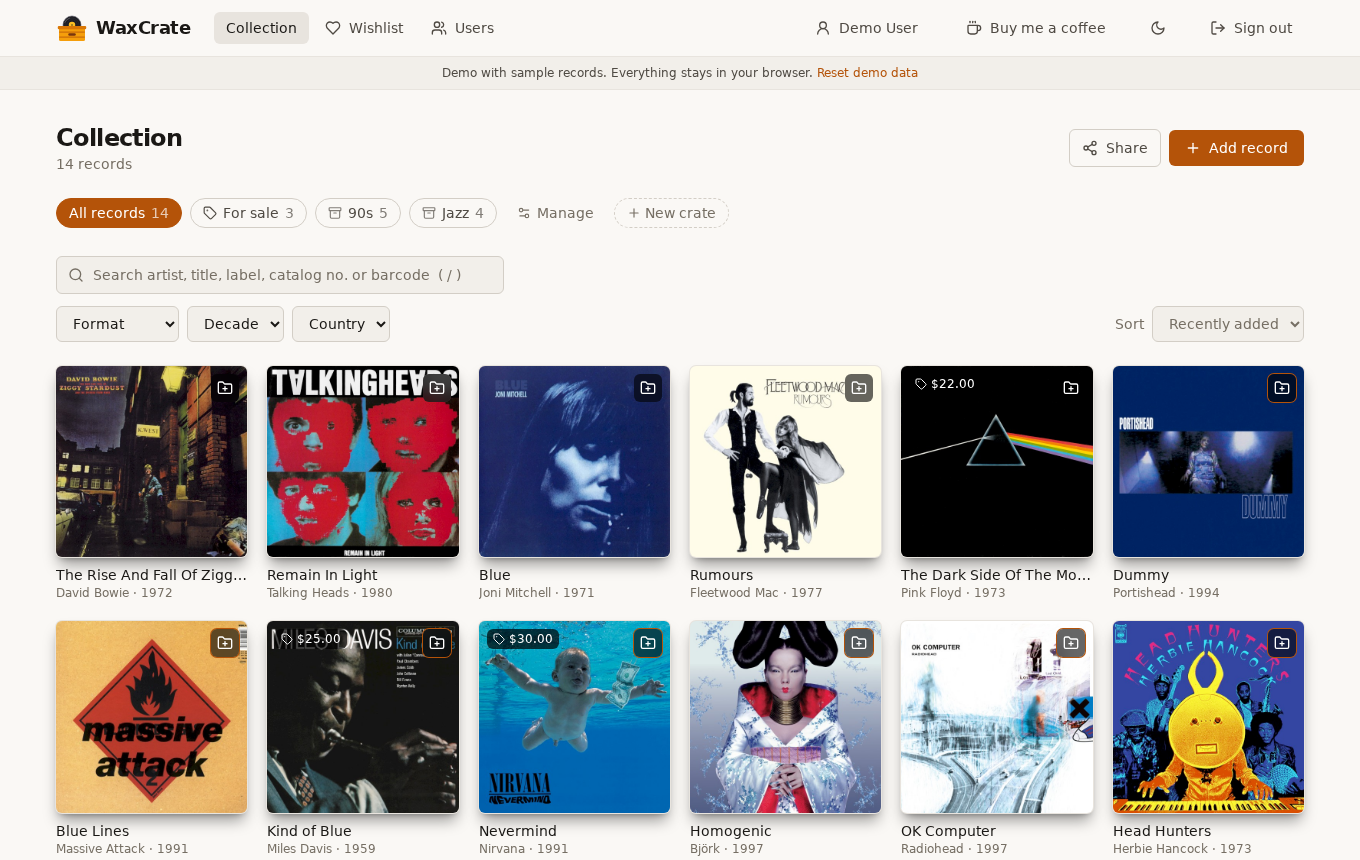
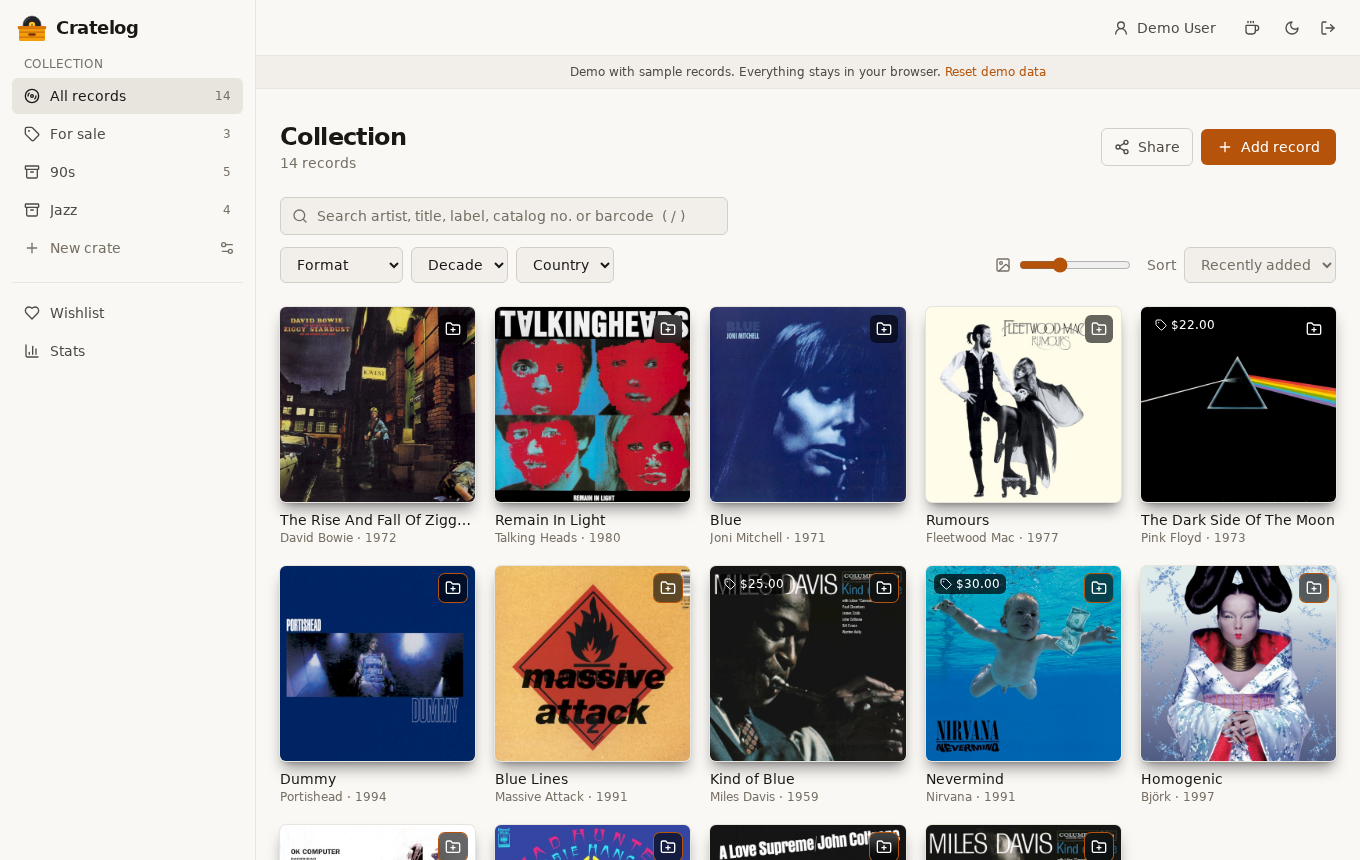
Release v0.4.0: WaxCrate is now Cratelog

diff --git a/apps/server/src/auth.ts b/apps/server/src/auth.ts
@@ -11,7 +11,10 @@ const scrypt = promisify(crypto.scrypt) as (
   keylen: number,
 ) => Promise<Buffer>
 
-const COOKIE = 'waxcrate_session'
+const COOKIE = 'cratelog_session'
+// Sessions started before the 0.4.0 rename carry the old cookie name; keep honouring it until it expires or is replaced.
+const LEGACY_COOKIE = 'waxcrate_session'
+const sessionToken = (c: Context) => getCookie(c, COOKIE) ?? getCookie(c, LEGACY_COOKIE)
 const SESSION_DAYS = 30
 
 interface SessionUser {
@@ -53,22 +56,24 @@ export function createSession(c: Context, userId: number): void {
     path: '/',
     maxAge: SESSION_DAYS * 86_400,
   })
+  deleteCookie(c, LEGACY_COOKIE, { path: '/' })
 }
 
 export function destroySession(c: Context): void {
-  const token = getCookie(c, COOKIE)
+  const token = sessionToken(c)
   if (token) db.prepare('DELETE FROM sessions WHERE token_hash = ?').run(sha256(token))
   deleteCookie(c, COOKIE, { path: '/' })
+  deleteCookie(c, LEGACY_COOKIE, { path: '/' })
 }
 
 /** After a password change: sign out every other device but keep the one making the change. */
 export function destroyOtherSessions(c: Context, userId: number): void {
-  const token = getCookie(c, COOKIE)
+  const token = sessionToken(c)
   db.prepare('DELETE FROM sessions WHERE user_id = ? AND token_hash != ?').run(userId, token ? sha256(token) : '')
 }
 
 function lookupUser(c: Context): SessionUser | null {
-  const token = getCookie(c, COOKIE)
+  const token = sessionToken(c)
   if (!token) return null
   const row = db
     .prepare(

diff --git a/apps/web/index.html b/apps/web/index.html
@@ -5,7 +5,7 @@
     <meta name="viewport" content="width=device-width, initial-scale=1.0" />
     <script>
       try {
-        var t = localStorage.getItem('waxcrate-theme')
+        var t = localStorage.getItem('cratelog-theme') || localStorage.getItem('waxcrate-theme')
         if (t !== 'light' && t !== 'dark') t = matchMedia('(prefers-color-scheme: light)').matches ? 'light' : 'dark'
         document.documentElement.dataset.theme = t
       } catch (e) {
@@ -17,9 +17,9 @@
     <link rel="apple-touch-icon" href="/apple-touch-icon.png" />
     <meta name="theme-color" content="#0b0b0d" />
     <meta name="apple-mobile-web-app-capable" content="yes" />
-    <meta name="apple-mobile-web-app-title" content="WaxCrate" />
+    <meta name="apple-mobile-web-app-title" content="Cratelog" />
     <meta name="robots" content="noindex" />
-    <title>WaxCrate</title>
+    <title>Cratelog</title>
   </head>
   <body>
     <div id="root"></div>

diff --git a/apps/server/src/routes/export.ts b/apps/server/src/routes/export.ts
@@ -20,7 +20,7 @@ interface Column {
 
 async function sheet(name: string, columns: Column[], rows: Array<Record<string, unknown>>): Promise<ArrayBuffer> {
   const wb = new ExcelJS.Workbook()
-  wb.creator = 'WaxCrate'
+  wb.creator = 'Cratelog'
   const ws = wb.addWorksheet(name)
   ws.columns = columns
   ws.addRows(rows)
@@ -33,7 +33,7 @@ async function sheet(name: string, columns: Column[], rows: Array<Record<string,
 const download = (c: { body: (d: ArrayBuffer, s: 200, h: Record<string, string>) => Response }, data: ArrayBuffer, name: string) =>
   c.body(data, 200, {
     'Content-Type': XLSX,
-    'Content-Disposition': `attachment; filename="waxcrate-${name}-${new Date().toISOString().slice(0, 10)}.xlsx"`,
+    'Content-Disposition': `attachment; filename="cratelog-${name}-${new Date().toISOString().slice(0, 10)}.xlsx"`,
     'Cache-Control': 'no-store',
   })
 

diff --git a/apps/web/src/demo/seed.ts b/apps/web/src/demo/seed.ts
@@ -153,7 +153,7 @@ export function seedState(): DemoState {
   return {
     nextId: 100,
     signedIn: true,
-    me: { name: 'Demo User', email: 'demo@waxcrate.app', currency: 'USD' },
+    me: { name: 'Demo User', email: 'demo@example.com', currency: 'USD' },
     copies: [
       copy(1, 1001, 'NM', 'VG+', 90),
       copy(2, 1001, 'VG', 'VG', 40, 25),
@@ -185,7 +185,7 @@ export function seedState(): DemoState {
     ],
     shares: [],
     users: [
-      { id: 1, email: 'demo@waxcrate.app', name: 'Demo User', role: 'admin', currency: 'USD', disabled: 0, createdAt: daysAgo(120) },
+      { id: 1, email: 'demo@example.com', name: 'Demo User', role: 'admin', currency: 'USD', disabled: 0, createdAt: daysAgo(120) },
       { id: 2, email: 'sam@example.com', name: 'Sam', role: 'user', currency: 'EUR', disabled: 0, createdAt: daysAgo(30) },
     ],
   }

diff --git a/apps/web/vite.config.ts b/apps/web/vite.config.ts
@@ -2,12 +2,12 @@ import tailwindcss from '@tailwindcss/vite'
 import react from '@vitejs/plugin-react'
 import { defineConfig } from 'vite'
 
-// The GitHub Pages demo (VITE_DEMO=true) is a project site, so it is served from /waxcrate/ and uses
+// The GitHub Pages demo (VITE_DEMO=true) is a project site, so it is served from /cratelog/ and uses
 // an in-browser mock instead of the API. Override the subpath with VITE_DEMO_BASE if you fork it.
 const demo = process.env.VITE_DEMO === 'true'
 
 export default defineConfig(({ command }) => ({
-  base: demo && command === 'build' ? (process.env.VITE_DEMO_BASE ?? '/waxcrate/') : '/',
+  base: demo && command === 'build' ? (process.env.VITE_DEMO_BASE ?? '/cratelog/') : '/',
   plugins: [react(), tailwindcss()],
   server: {
     port: 5173,

diff --git a/apps/server/src/db.ts b/apps/server/src/db.ts
@@ -168,7 +168,13 @@ const migrations: string[] = [
 ]
 
 fs.mkdirSync(config.dataDir, { recursive: true })
-export const db = new Database(path.join(config.dataDir, 'waxcrate.db'))
+// Cratelog was called WaxCrate before 0.4.0: adopt an existing database (and its WAL files) under the new name.
+const dbFile = path.join(config.dataDir, 'cratelog.db')
+const legacyDbFile = path.join(config.dataDir, 'waxcrate.db')
+if (!fs.existsSync(dbFile) && fs.existsSync(legacyDbFile)) {
+  for (const suffix of ['', '-wal', '-shm']) if (fs.existsSync(legacyDbFile + suffix)) fs.renameSync(legacyDbFile + suffix, dbFile + suffix)
+}
+export const db = new Database(dbFile)
 db.pragma('journal_mode = WAL')
 db.pragma('foreign_keys = ON')
 

diff --git a/apps/web/src/pages/Collection.tsx b/apps/web/src/pages/Collection.tsx
@@ -14,14 +14,14 @@ import { useProgressive } from '../useProgressive'
 import { filterOptions, matchesFilters, matchesQuery, SORTS, sortItems, type Filters, type SortKey } from '../search'
 import ShareExport from '../ShareExport'
 
-const SIZE_KEY = 'waxcrate-cover-size'
+const SIZE_KEY = 'cratelog-cover-size'
 const SIZE_MIN = 110
 const SIZE_MAX = 340
 const SIZE_DEFAULT = 190
 
 function loadSize() {
   try {
-    const n = Number(localStorage.getItem(SIZE_KEY))
+    const n = Number(localStorage.getItem(SIZE_KEY) ?? localStorage.getItem('waxcrate-cover-size'))
     if (n >= SIZE_MIN && n <= SIZE_MAX) return n
   } catch {
     /* storage unavailable: fall back to the default */

diff --git a/apps/web/src/api.ts b/apps/web/src/api.ts
@@ -20,7 +20,7 @@ async function realApi<T>(path: string, init?: RequestInit & { json?: unknown })
   })
   const data = await res.json().catch(() => ({}))
   // Session expired or account disabled mid-use: let the auth provider send the user back to the login page.
-  if (res.status === 401 && !path.startsWith('/auth/login')) window.dispatchEvent(new Event('waxcrate:unauthorized'))
+  if (res.status === 401 && !path.startsWith('/auth/login')) window.dispatchEvent(new Event('cratelog:unauthorized'))
   if (!res.ok) throw new ApiError((data as { error?: string }).error ?? res.statusText, res.status)
   return data as T
 }

diff --git a/apps/web/src/CoffeeMenu.tsx b/apps/web/src/CoffeeMenu.tsx
@@ -41,7 +41,7 @@ export default function CoffeeMenu() {
             <img src={`${import.meta.env.BASE_URL}developer.jpg`} alt="" aria-hidden="true" className="size-10 rounded-full border-2 border-ink-700 object-cover" />
             <div>
               <h2 className="text-sm font-semibold">Buy me a coffee</h2>
-              <p className="text-xs text-ink-500">Support keeps WaxCrate running</p>
+              <p className="text-xs text-ink-500">Support keeps Cratelog running</p>
             </div>
           </div>
           <div className="flex flex-col gap-2 p-3">

diff --git a/apps/web/src/auth.tsx b/apps/web/src/auth.tsx
@@ -41,8 +41,8 @@ export function AuthProvider({ children }: { children: ReactNode }) {
 
   useEffect(() => {
     const onUnauthorized = () => setUser(null)
-    window.addEventListener('waxcrate:unauthorized', onUnauthorized)
-    return () => window.removeEventListener('waxcrate:unauthorized', onUnauthorized)
+    window.addEventListener('cratelog:unauthorized', onUnauthorized)
+    return () => window.removeEventListener('cratelog:unauthorized', onUnauthorized)
   }, [])
 
   const logout = useCallback(async () => {

diff --git a/apps/web/src/pages/Login.tsx b/apps/web/src/pages/Login.tsx
@@ -9,7 +9,7 @@ import { ThemeToggle } from '../theme'
 
 export default function Login() {
   const { user, loading, login } = useAuth()
-  const [email, setEmail] = useState(IS_DEMO ? 'demo@waxcrate.app' : '')
+  const [email, setEmail] = useState(IS_DEMO ? 'demo@example.com' : '')
   const [password, setPassword] = useState(IS_DEMO ? 'demo' : '')
   const toast = useToast()
   const [busy, setBusy] = useState(false)

diff --git a/apps/web/src/demo/mockApi.ts b/apps/web/src/demo/mockApi.ts
@@ -4,7 +4,7 @@ import { CATALOG, RELEASES, seedState, type DemoState, type StoredCopy } from '.
 // In-browser stand-in for the server, used by the GitHub Pages demo (VITE_DEMO=true).
 // Same paths and response shapes as apps/server/src/routes/*; state lives in localStorage.
 
-const KEY = 'waxcrate-demo-v1'
+const KEY = 'cratelog-demo-v1'
 let state: DemoState | null = null
 
 function load(): DemoState {
